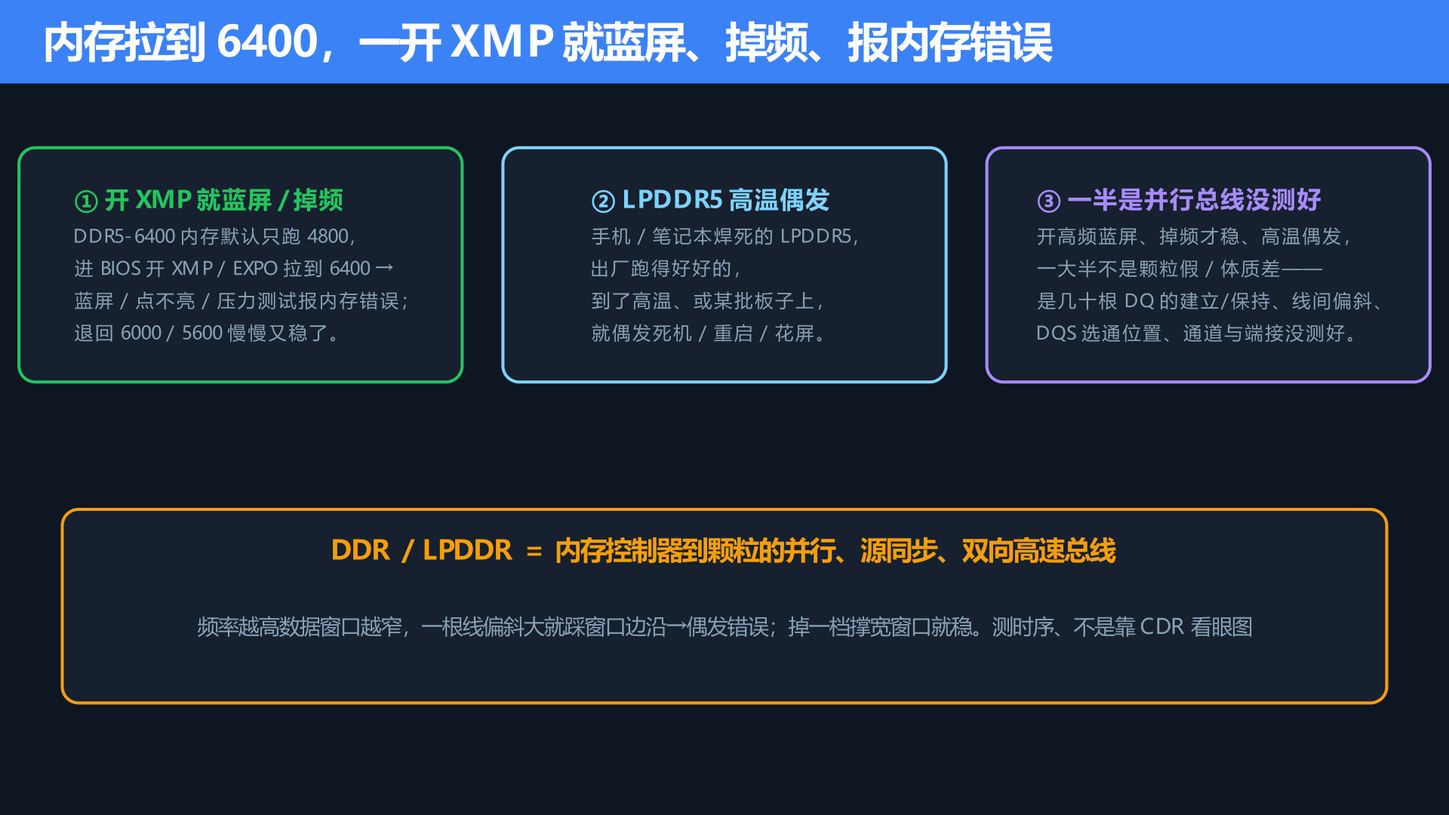
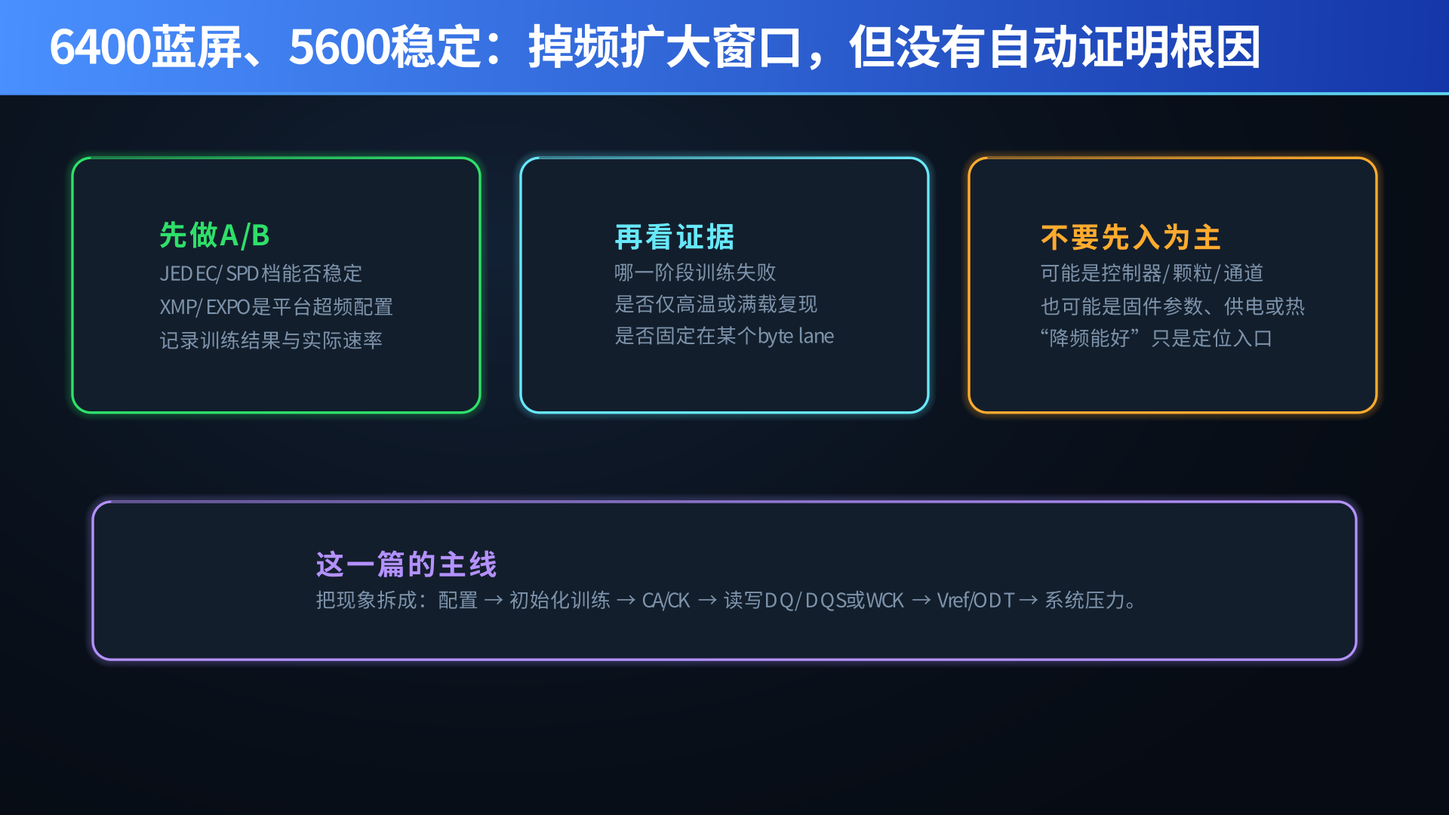
发布第45篇DDR提质内容
Copilot-Session: 4c8e3f6f-1901-408f-b55d-94d718168ce1

Changed region(s): [[0.0312, 0.1528, 1.0, 0.5194], [0.0312, 0.6111, 0.9688, 0.8861], [0.0, 0.0, 1.0, 0.1222]]

diff --git a/articles/45.md b/articles/45.md
@@ -1,204 +1,235 @@
 ---
-title: 内存频率明明拉到 6400，一开 XMP 就蓝屏、掉频、报内存错误——DDR / LPDDR：从「看眼图靠 CDR」的串行世界，一脚跨回「并行总线 + 源同步选通 + 建立保持」的另一套打法
+title: 同一套内存，6400蓝屏、5600却稳定——DDR / LPDDR怎么从训练日志追到最差byte lane
 outline: [2,3]
 ---
 
-# 内存频率拉到 6400，一开 XMP 就蓝屏、掉频、报内存错误——DDR / LPDDR：从「看眼图靠 CDR」的串行世界，一脚跨回「并行 + 源同步选通 + 建立保持」的另一套打法
+# 同一套内存，6400蓝屏、5600却稳定——DDR / LPDDR怎么从训练日志追到最差byte lane
 
-<div class="article-meta"><span class="badge">📘 模块六 · 高速接口一致性测试 · 第 11 篇 · 高速家族第 2 篇 · DDR / LPDDR</span><span class="badge">⏱ 约 21 分钟</span><span class="badge qr">🔧 含工程师速查</span></div>
+<div class="article-meta"><span class="badge">📘 模块六 · 高速接口一致性测试 · DDR / LPDDR</span><span class="badge">⏱ 约 13 分钟</span><span class="badge qr">🔧 含工程师速查</span></div>
 
 
-先说个玩游戏、装机、超频的人几乎都遇到过的场景。
+同一套DDR5内存，默认档稳定，打开XMP或EXPO跑6400就蓝屏；退到5600，又能跑几个小时。这个现象只证明了一件事：**降低数据率扩大了单位间隔，平台在较低档位找到了可用工作点。**
 
-你买了套标称 **DDR5-6400** 的内存，插上去默认只跑 **4800**；进 BIOS 打开 **XMP / EXPO** 一键超频拉到 6400，重启——**蓝屏、或者干脆点不亮、或者能进系统但一压力测试就报一堆内存错误**。你把频率退回 6000、5600，慢慢又稳了。再比如手机、笔记本上那颗焊死的 **LPDDR5**，出厂跑得好好的，到了高温、或者某批板子上，就是偶发死机、重启、花屏。
+它没有自动证明颗粒坏，也没有自动证明主板走线差。控制器、DRAM器件、拓扑、BIOS训练策略、ODT、Vref、供电和温度，都可能改变结果。正确的起手式不是换条内存碰运气，而是先做**JEDEC/SPD档与XMP/EXPO档的A/B**，再保存实际训练速率、失败阶段和错误模式。
 
-很多人以为是内存条是假货、颗粒体质差。但做硬件的人清楚：**这类「开高频就蓝屏、掉频才稳、高温偶发报错」里，有一大半根本不是颗粒坏了，而是内存这条并行总线——几十根数据线的建立 / 保持时序、线与线之间的偏斜、DQS 选通的位置、还有那段从控制器到颗粒的通道和端接——没测好、没训练好。** 频率越高，数据窗口越窄，几十根线里只要有一根偏斜大了一点、或者端接没调好反射一大，采样点就踩到了窗口边缘，于是偶发错误。开 XMP 掉一档就稳，正是因为降频把数据窗口重新撑宽了。
-
-这条总线怎么从 DDR3 一路翻到 DDR5、LPDDR 怎么低功耗还越跑越快、它的「眼图」和串行的到底差在哪、为什么测它要把颗粒从板子上「架起来」测——这，就是这一篇要讲的。
-
-![图1：DDR/LPDDR 现场痛点钩子。左：一套 DDR5-6400 内存默认只跑 4800，进 BIOS 开 XMP/EXPO 拉到 6400 → 蓝屏/点不亮/压力测试报内存错误，退回 6000/5600 才稳。中：手机/笔记本焊死的 LPDDR5 出厂正常，高温或某批板子偶发死机/重启/花屏。右：一句点题——别急着怪颗粒是假货/体质差，一半是内存并行总线（几十根 DQ 的建立/保持时序、线间偏斜、DQS 选通位置、通道与端接）没测好没训练好；频率越高数据窗口越窄，一根线偏斜大就踩窗口边沿→偶发错误，掉一档撑宽窗口就稳。DDR = 并行总线+源同步选通那一岸，测建立/保持不是靠 CDR 看眼图](/images/45/ill01_pain.png)
+![图1：DDR/LPDDR故障入口。6400失败而5600稳定只说明降档扩大了窗口；先比较JEDEC/SPD与XMP/EXPO配置，再看训练阶段、温度和最差byte lane，不先归因颗粒。](/images/45/ill01_pain.png)
 
 ---
 
-## 一、先认清主角：DDR / LPDDR 是什么、它和串行接口到底不一样在哪
+## 一、先拆清三层：配置档、训练结果、物理裕量
 
-**DDR SDRAM（双倍数据率同步动态随机存储器）** 就是你电脑、服务器里插的那几条**内存**；**LPDDR（低功耗 DDR）** 是它的低功耗版本，焊在手机、平板、超薄本上，和主控做在一起。它们连接的两端是：**内存控制器**（在 CPU / SoC 里）和**DRAM 颗粒**（内存条上那几颗黑芯片，或者焊在主板上的 LPDDR）。
+XMP和EXPO是平台超频配置，不等同JEDEC标准档。标在套条包装上的6400，也不能单独保证任意CPU、主板、DIMM拓扑和BIOS组合都稳定。因此排查要先回答：
 
-它和前面所有串行接口，有三个根本区别，正好是这一篇的测试主线：
+1. **配置层**：当前是SPD提供的JEDEC档，还是XMP/EXPO超频档？电压、时序和Command Rate是否被BIOS改写？
+2. **训练层**：平台最终训练到哪个速率？卡在CA、write leveling、read gate、DQ-DQS、Vref还是其他步骤？
+3. **物理层**：失败是否固定在某个channel、subchannel、rank或byte lane？随温度、供电、图案和负载怎样变化？
 
-1. **并行总线，不是串行**：串行接口是一对差分线上把数据一位一位高速串着发；DDR 是**几十根单端数据线（DQ）并排、同一时刻各发一位**。一个 64 位的 DIMM，光数据线就有 64 根（外加 ECC 8 根）。**堆带宽靠加宽、靠提频，不靠把单线速率无限拉高。**
-2. **源同步选通，不是嵌入式时钟 + CDR**：DDR **不把时钟埋进数据里**，而是**额外发一根数据选通 DQS**，跟着数据一起从发送端转发到接收端；接收端**直接拿 DQS 去采 DQ，不需要 CDR**。这一点它其实和 HDMI、MIPI 的 D-PHY 是**同一岸——源同步 / 转发时钟**，只不过 DDR 是这一岸里**最极致的并行**版本。所以测的主角是**建立 / 保持时序**，不是 CDR 抖动。
-3. **读写双向 + 需要训练**：同一组 DQ / DQS 线，**读的时候颗粒发、控制器收；写的时候控制器发、颗粒收**，方向反过来，而且**DQS 和数据的对齐关系还不一样**（后面讲）。加上频率极高、几十根线必须对齐，DDR 上电后要跑一套**内存训练**，逐根校准延迟、Vref、端接，训不过就只能掉频保命——这正是「开 XMP 蓝屏、掉频才稳」的根源。
-
-一句话：**DDR / LPDDR = 内存控制器和 DRAM 颗粒之间那条并行、源同步、双向、要训练的高速总线**；它测的是**时序和偏斜**，把你前面学的「串行看眼图」那套思路，整个换了一遍。
-
-![图2：认清 DDR/LPDDR 主角。中间画一条内存链路：左"内存控制器（CPU/SoC 内）"↔ 右"DRAM 颗粒（内存条/焊死 LPDDR）"，中间画一束并排的信号：一大把 DQ 数据线 + 一根 DQS 选通 + CK 命令时钟 + CA 地址命令，标"并行、几十根线同时发、无 CDR"。底部三大区别：①并行总线（几十根 DQ 同发，非串行一位位）②源同步选通 DQS 随数据转发→接收端不用 CDR（和 HDMI/D-PHY 同岸，测建立/保持不是抖动）③读写双向+上电要内存训练（训不过就掉频保命=开 XMP 蓝屏的根源）。一句话：测时序和偏斜，不是串行那套看眼图](/images/45/ill02_whatis.png)
+训练日志给的是定位入口，不是完整结论。训练通过，也只表示当前启动条件下找到了参数；它不等于全温、全压、全批次都有足够余量。
 
 ---
 
-## 二、原理与演进：并行源同步 + DQS 选通 + 读写方向，编码几乎没有
+## 二、信号不能混成一束：DQ、DQS、CK、CA各有职责
 
-### 2.1 数据链路：几十根 DQ + 一根 DQS，转发过去、直接采（无 CDR）
+DDR链路两端是内存控制器和DRAM。数据路径使用并行单端DQ，DDR家族通常用差分DQS/DQS#作为数据选通；命令地址CA则以差分CK/CK#为参考。DQ和DQS随读写方向反转，CA与CK主要由控制器送往DRAM。
 
-DDR 的每个字节（8 根 DQ）配一根 **DQS 数据选通**。发送端把数据放到 DQ 上的同时，把 DQS 也发过去；接收端**不从数据里恢复时钟**，而是**直接用收到的 DQS 边沿去锁存 DQ**。这就是**源同步（转发时钟）**——和第 40 篇 HDMI、第 43 篇 MIPI 的 D-PHY 站在同一岸，接收端**不用 CDR**。区别只在于：HDMI / D-PHY 是差分、串行一条 lane；**DDR 是单端、并行几十根线**。所以 DDR 的头号敌人不是抖动，而是——**几十根线之间、以及 DQ 和 DQS 之间的偏斜（skew）**：只要有一根线到得早了或晚了，采样就踩到数据窗口边缘。
+常见分析会把一个byte lane理解为8根DQ配一组DQS，方便组织测量。但这不是可以写死的器件定义：DRAM有x4、x8、x16等组织，ECC模组还有额外数据位，具体DQS数量和映射必须回到器件数据手册、模组拓扑和板级网表确认。
 
-### 2.2 读和写：同一组线，两个方向，DQS 对齐还不一样（DDR 独有的坎）
-
-这是 DDR 最容易把人绕晕、也是串行完全没有的地方：
-
-- **读操作**：颗粒是发送方、控制器是接收方。颗粒发出来的 **DQS 是「边沿对齐」**（DQS 跳变和数据跳变同时发生）。控制器要想采得准，得**自己把 DQS 延迟大约四分之一周期、挪到数据窗口正中间**再采——所以从控制器看，**读眼是「选通在中心」**。
-- **写操作**：控制器是发送方、颗粒是接收方。控制器故意把 **DQS 发成「中心对齐」**（DQS 跳变落在数据窗口正中），让颗粒直接拿去采。
-
-一句话记：**读眼、写眼是两张不同的眼，方向不同、DQS 对齐不同，必须分开测。** 这也是为什么内存分析要能**区分读突发和写突发**、分别触发。
-
-### 2.3 编码：几乎没有，所以速率就是「频率 × 2 × 位宽」
-
-和 PCIe 那种 8b/10b、128b/130b、PAM4 不同，**DDR 基本不做线路编码**（只有 DBI 数据总线反转这类降功耗 / 降噪的小优化）。所以它的带宽算法很直白：**数据率（MT/s）= 时钟频率 × 2（双沿）**；**总带宽 = 数据率 × 位宽 ÷ 8**。比如 DDR5-6400、64 位，单通道理论带宽约每秒 51 GB。**提带宽的三条路：提频率、加位宽（多通道）、双沿——不靠串行那种编码和 PAM4。**
-
-![图3：DDR 三大原理。①数据链路：每字节 8 根 DQ + 1 根 DQS 选通，发送端把 DQS 随数据转发，接收端直接拿 DQS 采 DQ、不用 CDR（源同步/转发时钟，和 HDMI/D-PHY 同岸，单端并行版）；头号敌人=线间偏斜 skew（DQ-DQ、DQ-DQS）。②读写双向：读=颗粒发、DQS 边沿对齐、控制器要延迟 ¼ 周期挪到中心采（读眼选通在中心）；写=控制器发、DQS 中心对齐给颗粒采。读眼写眼两张不同的眼，分开测。③编码几乎没有：数据率=频率×2（双沿），带宽=数据率×位宽÷8；提带宽靠提频/加位宽/双沿，不靠编码/PAM4](/images/45/ill03_arch.png)
+![图2：DDR信号分工。DQ和DQS/DQS#是双向数据路径，CK/CK#与CA是控制器到DRAM的命令地址路径；器件组织和DQS数量不能写死。](/images/45/ill02_signals.png)
 
 ---
 
-## 三、版本与速率：DDR3 到 DDR5，LPDDR4 到 LPDDR5X
+## 三、读写必须分开：同一根线，两套发送端与接收端
 
-内存分两条线：桌面 / 服务器的 **DDR**，和移动 / 低功耗的 **LPDDR**。都归 **JEDEC** 管，标准号 DDR 是 **JESD79-x**、LPDDR 是 **JESD209-x**。
+写操作由控制器发送DQ和DQS，DRAM接收；读操作由DRAM发送DQ和DQS，控制器接收。同一组网络换了方向，驱动器、接收器、参考面和波形都变了。
 
-| 家族 | 代数 | JEDEC 数据率（MT/s） | 关键点 |
-|---|---|---|---|
-| DDR | **DDR3** | 800 – 2133 | 外部 Vref |
-| DDR | **DDR4** | 1600 – 3200 | 内部 VrefDQ 训练、Bank Group |
-| DDR | **DDR5** | 3200 起，主流 4800 – 6400，规格到 8000+ | 双子通道 / 片上 ECC / DFE / 更细端接 |
-| LPDDR | **LPDDR4** | 3200 | 低功耗、焊死、PoP 封装 |
-| LPDDR | **LPDDR4X** | 4266 | I/O 电压再降（约 0.6 V） |
-| LPDDR | **LPDDR5** | 6400 | **引入 WCK 写时钟**（比 CK 快、专门采数据） |
-| LPDDR | **LPDDR5X** | 8533 | I/O 电压更低（约 0.5 V） |
+不同DDR代际对DQS关系、preamble/postamble和训练动作有各自定义。工程上可以用“发送端提供选通、接收端把采样相位移到窗口内部”理解，但不能把“读永远边沿对齐、写永远中心对齐、固定延迟四分之一周期”写成DDR与LPDDR全家族的通式。正式分析必须带上**代际、读写方向和适用测试方法**。
 
-几个测试上必须记住的点：
-
-- **MT/s ≠ 频率**：DDR5-6400 的时钟只有 3200 MHz，靠双沿翻成 6400 MT/s。选示波器带宽、算 UI（单位间隔）要按数据率、别按时钟频率。
-- **LPDDR5 的 WCK 是关键变化**：低功耗家族到了 LPDDR5，为了跑更高速，把**数据选通独立成一根更快的 WCK 写时钟**，和命令地址用的 CK 时钟分开——这和 PCIe 那种「另给一根参考时钟」思路不同，WCK 仍是**随数据转发的源同步选通**，只是更快、更专职。
-- **越往后越离不开训练**：DDR4 起 Vref 走内部训练，DDR5 更是把均衡（DFE）也加进颗粒——频率上去了，**出厂那套固定时序参数已经不够，必须靠上电训练一根根校**。
-
-![图4：DDR/LPDDR 版本速率阶梯。上排 DDR：DDR3(800-2133)→DDR4(1600-3200,内部Vref训练)→DDR5(4800-6400+,双子通道/片上ECC/DFE)。下排 LPDDR：LPDDR4(3200)→LPDDR4X(4266,0.6V)→LPDDR5(6400,引入WCK)→LPDDR5X(8533,0.5V)。每格标数据率+关键点。底部三条：①MT/s=频率×2，DDR5-6400 时钟只 3200MHz，算 UI/选带宽按数据率不按频率 ②LPDDR5 把选通独立成更快的 WCK 写时钟（仍是源同步转发，非 PCIe 式参考时钟）③越高速越离不开上电训练（Vref/延迟/DFE 一根根校，训不过掉频）。都归 JEDEC：DDR=JESD79，LPDDR=JESD209](/images/45/ill04_versions.png)
+![图3：DDR读写路径。写由控制器发、DRAM收；读由DRAM发、控制器收。读写突发必须分离，不能混成同一只眼。](/images/45/ill03_read_write.png)
 
 ---
 
-## 四、DDR5 的独特之处：双子通道、片上 ECC、DFE、更细端接
+## 四、并行时序预算：不是skew和jitter二选一
 
-DDR5 不只是把 DDR4 提了个频，它在架构上动了几刀，直接影响你怎么测：
+DDR5-6400的一个UI约为：
 
-- **一条 DIMM 拆成两个独立子通道**：DDR4 是 1 个 64 位通道；DDR5 把它**拆成 2 个各 32 位的独立子通道**，各有各的命令地址。好处是并行度更高、小数据搬运更高效；**代价是测试要按子通道分别看、别把两个子通道的信号混在一起判。**
-- **片上 ECC（On-die ECC）**：DDR5 **每颗颗粒内部自带纠错**，能纠单比特错——注意这和内存条上那种「ECC 内存」的**模组级 ECC 不是一回事**，片上 ECC 连普通非 ECC 内存都有。它的意义是：**颗粒内部悄悄纠掉的错，你在系统层不一定看得见**，所以信号裕量差的问题可能被 ECC 暂时盖住，测试时更要盯住原始信号质量。
-- **DFE（判决反馈均衡）进了颗粒**：DDR5 **第一次给商用内存的接收端加了均衡**——和 PCIe / USB3 那套均衡是一个道理，用来对抗高速下的码间干扰。这意味着 DDR 的眼图，也开始有「均衡后才睁得开」的味道了。
-- **端接（ODT）更精细、电压更低**：DDR5 工作电压降到 1.1 V，片上端接（ODT）档位更多、还能随读 / 写 / 空闲动态切换——**端接配错，反射就大、眼就闭**，是高速下翻车的常客。
+**UI = 1,000,000 ÷ 6400 = 156.25 ps**
 
-一句话：**DDR5 = 双子通道 + 片上 ECC + 颗粒里加了均衡（DFE）+ 更精细的端接**；它让内存第一次有了点「串行接口」的测试味道（均衡、训练），但骨子里仍是并行源同步。
+这个156.25 ps不是全部都能拿来采样。边沿时间、ISI、抖动、串扰、Vref噪声、DQ-DQ偏斜、DQ-DQS偏斜，以及接收器需要的建立与保持时间，都会占用窗口。
 
-![图5：DDR5 四大独特。①双子通道：DDR4 1×64 位 → DDR5 2×32 位独立子通道（各自命令地址），测试按子通道分别看别混判。②片上 ECC：每颗颗粒内部纠单比特错（≠ 模组级 ECC 内存），颗粒悄悄纠掉的错系统层看不见→信号裕量问题可能被盖住，更要盯原始信号质量。③DFE 进颗粒：第一次给商用内存接收端加均衡（同 PCIe/USB3 思路），对抗码间干扰→内存眼图也有"均衡后才睁开"味道。④端接更细：1.1V、ODT 档位多、随读/写/空闲动态切换，配错→反射大眼闭。一句话：DDR5 有了点串行味（均衡/训练），骨子里仍并行源同步](/images/45/ill05_ddr5.png)
+本篇教学模型把共同损耗先从左右两侧扣除，再让skew把余量从一侧搬到另一侧。skew为零时两侧均有余量；DQ相对DQS越来越早，保持侧先失败；越来越晚，建立侧先失败。因此，“DDR头号敌人不是抖动，而是skew”也不准确。正确说法是：
 
----
+> **并行源同步接口的采样窗口由skew、jitter、ISI、Vref噪声和接收时序要求共同决定；最差DQ或byte lane决定系统余量。**
 
-## 五、DDR 测什么 · 三类：读眼、写眼、地址命令时序（都以 DQS / CK 为参考）
+![图4：DDR5-6400教学时序预算。UI约156.25 ps，jitter、ISI和guard先占窗口，skew再改变建立与保持两侧的分配。图中22 ps为教学判据，不是JEDEC限值。](/images/45/ill04_budget.png)
 
-DDR 的一致性测试也分三大类，但**每一类的参考都不是恢复时钟，而是那根转发过来的选通 / 时钟**——这是它和串行最大的不同：
-
-1. **读眼（颗粒 → 控制器）**：示波器抓颗粒发出的 DQ，**以收到的 DQS 为参考时钟**做眼图和时序。因为读的 DQS 是边沿对齐的，工具要**先把 DQS 挪到数据中心**（或直接量数据相对 DQS 的建立 / 保持），再套 JEDEC 的**眼图模板 + 建立 / 保持限值**。重点看：眼宽（时序裕量）、眼高（电压裕量、相对 Vref）、上升下降时间、过冲下冲。
-2. **写眼（控制器 → 颗粒）**：抓控制器发出的 DQ 和中心对齐的 DQS，同样以 DQS 为参考，验写方向的建立 / 保持和眼图。**读眼、写眼要分开触发、分开判**——这是内存分析仪 / 示波器的内存软件的基本功。
-3. **地址 / 命令 + 时钟（CA / CK）**：地址命令总线通常是**单沿（SDR）**、以 **CK 差分时钟**为参考，测命令 / 地址相对 CK 的建立 / 保持；再加 CK 本身的抖动、占空比。**命令地址错，表现出来往往是训练不过、认不到内存，而不是数据错。**
-
-贯穿三类的共同度量，全是**并行总线的东西**：建立时间、保持时间、**DQ 与 DQ 之间的偏斜、DQ 与 DQS 的偏斜**、眼宽眼高、Vref 裕量、过冲下冲、端接反射。抖动只是其中一项，不是主角。
-
-![图6：DDR 测什么三类（都以转发来的 DQS/CK 为参考，不是 CDR 恢复时钟）。①读眼（颗粒→控制器）：抓 DQ，以收到的 DQS 为参考，读 DQS 边沿对齐→先挪到数据中心再量建立/保持，套 JEDEC 眼图模板；看眼宽（时序裕量）/眼高（相对 Vref 电压裕量）/上升下降/过冲。②写眼（控制器→颗粒）：抓 DQ+中心对齐 DQS，验写方向建立/保持。读眼写眼分开触发分开判。③地址命令+时钟 CA/CK：CA 单沿以 CK 差分时钟为参考量建立/保持，加 CK 抖动/占空比；命令地址错=训练不过/认不到内存。共同度量：建立/保持、DQ-DQ 与 DQ-DQS 偏斜、眼宽眼高、Vref 裕量、过冲、端接反射——抖动只是其一](/images/45/ill06_test3.png)
+![动图1：DQ-DQS skew从负到正连续扫描。DQ早到时保持侧FAIL，中间PASS，DQ晚到时建立侧FAIL；两侧22 ps为教学判据。](/images/45/anim45_skew.gif)
 
 ---
 
-## 六、怎么测 · 台面：BGA 转接板 + 读写分离 + 内存训练态
+## 五、DDR5 DIMM与LPDDR5/5X必须分开讲
 
-DDR 的测试台面，和串行那套「测试点 + 探头 + 一致性软件」有一半是通的，但它有两道**并行内存独有的大坎**：
+### 5.1 DDR5 DIMM
 
-- **坎一：信号探不到，得上转接板（interposer）**。DDR 颗粒是 **BGA 封装**，信号从芯片底下的焊球直接进 PCB，**表面根本没有可探的点**。所以要用 **BGA 转接板**：把它插在颗粒和主板之间（颗粒焊到转接板上、转接板再插进主板 BGA 位），转接板上引出探测点接示波器；测内存条则用 **DIMM 插槽转接板**。转接板本身会引入一点负载和通道影响，是内存测量绕不开的前提。
-- **坎二：读写要分离**。因为同一组线读写双向跑，示波器 / 内存分析软件必须**靠命令总线或选通方向，把读突发和写突发分开**，才能分别累积读眼、写眼——混在一起眼图就是糊的。
+DDR5 DIMM仍用CK/CA处理命令地址、用DQ与DQS传输数据。常见非ECC DIMM可看作两个32 bit独立子通道；ECC模组通常还包含额外数据位，因此不能统一写成“所有DDR5都是2×32 bit”。
 
-台面主要步骤：① **上转接板**，探 DQ、DQS、CK、CA、Vref；② **让内存跑规定的读 / 写图案**（用平台的内存测试 / BIST，或专用测试卡），锁定目标速率档；③ **配好 Vref 和 ODT**（按 JEDEC 或平台训练值）；④ **触发并分离读 / 写突发**，分别以 DQS / CK 为参考累积眼图；⑤ **套 JEDEC 眼图模板 + 量建立 / 保持 + 量偏斜 + 量过冲**，出通过 / 不通过 + 裕量。示波器带宽一般要**数据率的 2 倍以上**，配高阻有源探头。
+DDR5还引入On-die ECC。它是DRAM内部可靠性机制，不等同模组级或系统端到端ECC，也不能据此推导“系统层完全看不到所有内部错误”。它更不能替代原始SI、训练裕量和系统压力测试。
 
-一句话：**DDR 测法 = 转接板把藏在焊球下的信号引出来 + 读写分开 + 以转发选通为参考量时序**；它和串行共用示波器和眼图概念，但主角是时序和偏斜，且非探转接板不可。
+### 5.2 LPDDR5 / LPDDR5X
 
-![图7：测 DDR 的台面。坎一：BGA 封装信号在焊球底下没法探→用 BGA 转接板（颗粒焊转接板→插主板 BGA 位，引出探点）/ DIMM 插槽转接板；转接板本身引入负载是前提。坎二：读写同线双向→靠命令总线/选通方向把读突发写突发分开，才能分别累积读眼写眼。步骤：①上转接板探 DQ/DQS/CK/CA/Vref ②跑规定读写图案(BIST)锁速率 ③配 Vref/ODT ④触发并分离读写突发,分别以 DQS/CK 参考累积眼图 ⑤套 JEDEC 眼图模板+量建立保持+偏斜+过冲。带宽≥2×数据率+高阻有源探头。一句话：转接板引出信号+读写分开+以转发选通为参考量时序](/images/45/ill07_bench.png)
+LPDDR5把命令地址时钟域和高速数据时钟域进一步分开：CK服务于命令地址时序，高速数据接口引入WCK。WCK参与高速数据传输及相关训练，但它不是“把DQS简单改名”，也不应只写成“写时钟”。具体WCK与DQ、读写和训练关系必须按适用代际规范及器件实现确认。
 
----
+LPDDR通常采用BGA或PoP，信号埋在封装下，测试台面与DIMM插槽完全不同。
 
-## 七、判据：JEDEC 一致性 —— 眼图模板 + 建立 / 保持 + 过冲，从时序预算反推
-
-DDR / LPDDR 的判据，来自 **JEDEC 标准**（DDR = JESD79-x，LPDDR = JESD209-x），核心是三块：
-
-- **眼图模板（Data Eye / Mask）**：在时间 - 电压平面上画一个禁区，DQ / DQS 波形不许侵入；同时给**最小眼宽、最小眼高（相对 Vref）**。
-- **建立 / 保持时序**：数据相对选通、命令地址相对时钟的**建立时间、保持时间**最小值（如 tDS / tDH 一类）——这是并行总线的核心判据，串行那边基本没有。
-- **电平与边沿**：过冲 / 下冲的**幅度和面积**上限、上升 / 下降时间范围、Vref 容差。
-
-这些模板和限值同样是**从系统时序预算反推**出来的：把时钟抖动、几十根线的偏斜、板级通道损耗、串扰、Vref 噪声全算进一个预算里，扣掉这些余量，剩下的就是颗粒 / 控制器信号必须守住的窗口。**和串行不同的是：串行预算里的大头是抖动和均衡；DDR 预算里的大头是偏斜和建立 / 保持。** 这跟 UFS 分 M-PHY 和 JEDEC 两本、DP 分物理层和链路层两本，是同一个「电气一本、协议 / 系统一本」的套路——只不过 DDR 的电气判据换成了并行时序那套。
+![图5：DDR5 DIMM与LPDDR5/5X分开。前者按CK/CA和DQ/DQS理解；后者需单独处理CK、WCK、DQ及PoP/BGA探测。](/images/45/ill05_families.png)
 
 ---
 
-## 八、常见翻车 → 分层揪真凶（别一上来就换内存条）
+## 六、Training到底在校什么
 
-内存报错、蓝屏、掉频，最忌讳一上来就换条、换颗粒。正确姿势还是分层：
+训练的核心不是“自动修好设计”，而是让控制器与DRAM在当前通道、温度、电压和速率下搜索可用工作点。不同代际和控制器实现的训练项目并不完全相同，但可按四组理解：
 
-- **① 训练 / 初始化层**：内存训练过没过、跑在哪一档频率、时序参数（时序表 SPD / XMP）对不对。**开 XMP 就蓝屏、点不亮、只能降频跑**，绝大多数死在这一层——多半是这个频率下通道 / 颗粒的裕量不够，训练只能回落。先查这里，别碰示波器。
-- **② 时序 / 偏斜层**：训得上但高频偶发错。去量**建立 / 保持裕量、DQ 之间和 DQ-DQS 之间的偏斜**——一根线走线长了、过孔多了，偏斜就超。
-- **③ 信号完整性 / 电气层**：眼图模板压线、**过冲下冲超标、端接（ODT）没配好导致反射、Vref 偏**。这一层管眼睁不睁得开。
-- **④ 地址 / 命令层**：数据没错但**认不到内存、容量不对、训练在命令阶段就挂**，去查 CA 总线相对 CK 的时序、命令完整性。
-- **⑤ 供电 PI 层**：内存大电流突发下 **VDDQ 掉压 / 纹波**，会让本来卡边的时序直接翻车——高温、满载才复现的偶发错误，重点怀疑这一层（呼应模块三 PI）。
+- **初始化与CA路径**：识别器件、拓扑和rank，确认命令地址路径可用。
+- **写路径**：校准写方向的DQS关系、位延迟和Vref等参数。
+- **读路径**：校准门控、采样相位、数据位延迟和Vref等参数。
+- **电气参数**：按代际和实现调整ODT、驱动强度及可用均衡能力。
 
-口诀一句：**先看训练和频率档，再量建立 / 保持和偏斜，再看眼图 / 过冲 / 端接 / Vref，再查命令地址，最后别忘供电。**
+本篇二维模型同时扫描DQS delay和Vref。单独把delay调到中心，而Vref仍偏在边缘，照样失败；反过来也一样。只有组合点进入绿色窗口，教学判定才PASS。
 
-![图8：DDR 常见翻车分层揪真凶。左五层：①训练/初始化层（训练过没过/跑哪档/SPD·XMP 对不对——开 XMP 蓝屏/点不亮/只能降频死这层,先查别碰示波器）②时序/偏斜层（训得上高频偶发错→量建立保持裕量+DQ-DQ/DQ-DQS 偏斜,走线长/过孔多就超）③信号完整性/电气层（眼图压线/过冲下冲超标/ODT 反射/Vref 偏）④地址命令层（认不到内存/容量不对/命令阶段训练挂→查 CA-CK 时序）⑤供电 PI 层（VDDQ 掉压/纹波,高温满载偶发,呼应模块三）。右"现象→指向哪层"对照：开 XMP 蓝屏→训练/频率;高频偶发错→偏斜/建立保持;认不到内存→命令地址;高温满载才错→供电。口诀：先训练频率→建立保持偏斜→眼图过冲端接Vref→命令地址→别忘供电](/images/45/ill08_debug.png)
+![图6：Training项目地图。初始化/CA、读路径、写路径和电气参数分别校准；训练通过只代表当前条件下找到设置。](/images/45/ill06_training.png)
+
+![动图2：delay与Vref二维训练。搜索轨迹从窗口外进入中心，再离开窗口；绿色椭圆为教学训练窗。](/images/45/anim45_training.gif)
 
 ---
 
-## 九、工程师速查（一图带走）
+## 七、Vref与ODT：都不是“调大一点更稳”
 
-- **主角 / 时钟**：内存控制器↔DRAM 颗粒的**并行、源同步、双向**总线；几十根 DQ + DQS 选通转发，接收端**不用 CDR**（和 HDMI / D-PHY 同岸的并行极致版），测**建立 / 保持 + 偏斜**，不是抖动。
-- **读写**：读 = 颗粒发、DQS 边沿对齐、要挪到中心采；写 = 控制器发、DQS 中心对齐。**读眼、写眼分开测。**
-- **速率**：DDR3/4/5 = 800~2133 / 1600~3200 / 4800~6400+ MT/s；LPDDR4/4X/5/5X = 3200 / 4266 / 6400 / 8533 MT/s；**MT/s = 频率 × 2**，无线路编码，带宽 = 数据率 × 位宽 ÷ 8。
-- **DDR5 独特**：双 32 位子通道 / 片上 ECC / 颗粒里加 DFE 均衡 / 更细 ODT；LPDDR5 引入更快的 **WCK 写时钟**。
-- **测什么三类**：读眼（DQS 边沿对齐、采样前挪中心）、写眼（DQS 中心对齐）、地址命令时序（相对 CK）；都以**转发来的选通 / 时钟**为参考。
-- **怎么测**：**BGA / DIMM 转接板**把焊球下的信号引出来 + **读写分离** + 以 DQS/CK 为参考量时序；带宽 ≥ 2× 数据率。
-- **判据 / 调试**：JEDEC（DDR JESD79 / LPDDR JESD209）眼图模板 + 建立 / 保持 + 过冲，从时序预算反推；调试分层：训练频率 → 建立保持偏斜 → 眼图过冲端接 Vref → 命令地址 → 供电。
+Vref决定接收电压判决位置。偏得太高或太低，都会缩小一侧电压裕量；噪声和温漂还会让最佳点移动。
 
-![图9：DDR/LPDDR 工程师速查卡（六格）。主角/时钟：控制器↔颗粒并行源同步双向,DQS 转发不用 CDR,测建立/保持+偏斜。读写：读=颗粒发 DQS 边沿对齐挪中心采,写=控制器发 DQS 中心对齐,读眼写眼分开测。速率：DDR3/4/5=2133/3200/6400+,LPDDR4/4X/5/5X=3200/4266/6400/8533 MT/s,MT/s=频率×2 无编码。DDR5 独特：双子通道/片上ECC/DFE/细 ODT,LPDDR5 引入 WCK。测什么三类：读眼/写眼/地址命令时序,以转发选通为参考。判据/调试：JEDEC JESD79·209 眼图模板+建立保持+过冲,分层训练→偏斜→电气→命令→供电。底部：↔44 PCIe·43 MIPI·40 HDMI（源同步邻居）·35 一致性总览·32 抖动·31 眼图·29 带宽（下一篇 Thunderbolt 雷电）](/images/45/ill09_quickref.png)
+ODT用于控制反射，但最佳值与驱动、拓扑、方向、rank状态和工作模式有关。欠端接和过端接都可能增加振铃。图中的48 Ω只是本教学模型的匹配点，不能抄进产品设置。
+
+真实波形模型中，ODT从20 Ω扫到120 Ω：两端反射加重，中间区域眼图最好。它表达的是“存在匹配窗口”，而不是宣称某个公开JEDEC门限。
+
+![图7：ODT教学模型的三组真实眼图。20 Ω欠端接、48 Ω接近模型匹配、120 Ω过端接；两端反射都变大。](/images/45/ill07_odt.png)
+
+![动图3：ODT从20 Ω扫到120 Ω。右侧真实码流眼图展示形态变化，左侧独立行为模型按眼高0.40与眼宽0.35 UI教学判据经历FAIL、PASS、FAIL；两者趋势一致但数值口径不同。](/images/45/anim45_odt.gif)
+
+---
+
+## 八、DDR5新能力要讲清边界
+
+DDR5的子通道、On-die ECC、更细的ODT和器件/控制器可能具备的均衡能力，确实提高了架构复杂度。但要避免三个误区：
+
+1. **标准能力不等于所有器件实现完全相同**。是否支持某类均衡、训练参数能否读取，要看具体器件和控制器。
+2. **On-die ECC不等于端到端ECC**。它不能覆盖控制器、板级传输和系统存储路径的所有错误。
+3. **训练和纠错不等于放宽物理裕量**。系统压力测试仍要覆盖温度、电压、图案、时间和批次。
+
+![图8：DDR5能力边界。子通道、On-die ECC、均衡与ODT分别属于架构、器件和实现层，不能互相替代测试证据。](/images/45/ill08_ddr5.png)
+
+---
+
+## 九、测试对象要分开：一张眼图不能回答所有问题
+
+DDR/LPDDR测试至少包含五类证据：
+
+| 对象 | 主要证据 | 不能替代什么 |
+|---|---|---|
+| Tx/波形 | DQ、DQS、WCK、CA、CK的电气与时序 | 不能单独证明Rx容限 |
+| Rx/容限 | delay、Vref或压力扫参得到的接收窗口 | 不能由Tx眼图替代 |
+| 通道/互连 | 拓扑、阻抗、损耗、串扰、探测加载 | 不能单独证明训练策略正确 |
+| 训练/日志 | 实际档位、失败阶段、训练参数 | 不是单一物理根因证明 |
+| 系统压力 | 温度、电压、图案、时长、错误地址 | 不能替代波形和根因分析 |
+
+![图9：DDR/LPDDR五类测试对象。Tx、Rx、通道、训练日志和系统压力各自回答不同问题。](/images/45/ill09_test_objects.png)
+
+---
+
+## 十、台面怎么搭：先确定参考面和探测加载
+
+### 10.1 DDR5 DIMM台面
+
+DIMM可使用slot interposer或专用夹具引出目标subchannel和byte lane。示波器需要分离读写突发，并保存训练日志、速率档和测试图案。夹具、走线和探头都会加载通道，必须记录参考面和去嵌边界。
+
+![图10：DDR5 DIMM Setup Diagram。示波器通过slot interposer探测目标DQ/DQS，平台固定速率与图案并保存训练日志。](/images/45/fig_setup_dimm.png)
+
+### 10.2 LPDDR5/5X台面
+
+LPDDR通常需要BGA/PoP interposer或设计阶段预留的可测结构。只引出必要信号，先评估探测结构的加载，再解释波形。DQ/WCK数据路径、CA/CK命令路径、训练日志和环境应力要分组，不要混成一次捕获。
+
+![图11：LPDDR5/5X Setup Diagram。BGA/PoP interposer引出DQ、WCK和CA，联动训练日志、温箱与供电扰动。](/images/45/fig_setup_lpddr.png)
+
+示波器和探头带宽不能套“至少2×数据率”的万能公式。正确选型要结合目标边沿、适用JEDEC方法、探头与夹具响应、噪声和去嵌方案。
+
+![图12：DDR测试台面原则。DIMM与LPDDR分别选择interposer，明确读写方向、参考面和探测加载。](/images/45/ill10_setup.png)
+
+---
+
+## 十一、最差byte lane：为什么高温会让6400回退
+
+并行接口是木桶。其他lane有余量，只要一个byte lane受skew、Vref偏移、噪声或局部通道影响更大，平台就可能在压力条件下报错。
+
+本篇模型给8个byte lane不同的skew、Vref和噪声工作点。温度从25°C升高时，最差lane的6400余量逐步下降；进入模型FAIL区后，训练回退到较低档。降档让UI变宽，因此重新PASS，但原来的最差lane和物理弱点并没有消失。
+
+![动图4：8个byte lane的温度扫描。最差lane先越过教学门槛，平台从6400回退；降档扩大UI但不等于修复根因。](/images/45/anim45_lane.gif)
+
+---
+
+## 十二、从“蓝屏”走到根因的五步
+
+1. **固定复现条件**：记录BIOS、SPD/XMP/EXPO、速率、时序、电压、温度、负载和错误地址。
+2. **读取训练证据**：确认失败阶段、实际档位、channel/subchannel/rank/device/byte lane。
+3. **做变量隔离**：单独改变速率、温度、电压、图案或rank，避免一次改多个旋钮。
+4. **按对象测量**：CA初始化问题看CA/CK；读写错误分方向看DQ与DQS/WCK；持续关注Vref、ODT和VDDQ。
+5. **闭环验证**：修正后回到原始高温、高压/低压、长时间压力和批次条件，而不是只看一次训练通过。
+
+![图13：DDR/LPDDR分层定位。从配置档和训练阶段开始，再落到CA、读写byte lane、SI/PI/热和系统层。](/images/45/ill11_debug.png)
 
 ---
 
 ## 一句话总结
 
-**一句话：DDR / LPDDR 是内存控制器到 DRAM 颗粒之间那条并行、源同步、双向、还要训练的高速总线——几十根 DQ 并排一起发、一根 DQS 选通随数据转发，接收端不用 CDR、直接拿选通采数据，把前面整个串行家族「看眼图、靠 CDR」的打法一脚跨回了「看时序、靠选通」。**
+**DDR / LPDDR不是“只看建立保持、不看眼图”，也不是“和串行接口一样套一只眼”。它要按代际和读写方向，以DQS、CK或WCK等适用参考拆开波形和时序，再把skew、jitter、ISI、Vref、ODT、训练与最差byte lane放进同一个证据链。**
 
-- **测的主角变了**：不再是抖动和均衡，而是建立 / 保持时序，加上几十根线之间的偏斜。
-- **两道串行没有的坎**：读眼、写眼方向不同要分开测；信号藏在 BGA 焊球底下，非上转接板不可测。
-- **判据来自 JEDEC**：DDR 归 JESD79、LPDDR 归 JESD209，模板和限值从系统时序预算反推。
-- **调试先分层**：先看训练和频率档 → 再量建立 / 保持和偏斜 → 再看眼图 / 过冲 / 端接 / Vref → 再查命令地址 → 最后别忘供电。
+![图14：DDR/LPDDR工程师速查。入口、架构、时序、训练、台面与证据闭环六步。](/images/45/ill12_quickref.png)
+
+下一篇我们讲《Thunderbolt / USB4》：当PCIe、DisplayPort和USB被封进同一条隧道，电气、路由与协议问题该怎样分层。
 
 ---
 
-## 附：DDR / LPDDR 一致性测试速查表
+## 🔧 工程师速查（附录）
 
-| 维度 | 内容 |
+### A. 第一轮必须保存
+
+| 类别 | 记录项 |
 |---|---|
-| **是什么** | 内存控制器↔DRAM 颗粒的**并行 + 源同步 + 双向**高速总线；几十根 DQ + DQS 选通 |
-| **站哪一岸** | q02 地图「源同步 / 转发时钟」岸的**并行极致版**（和 HDMI、MIPI D-PHY 同岸），**不用 CDR** |
-| **测的主角** | 建立 / 保持时序 + 线间偏斜（DQ-DQ、DQ-DQS），而非串行的抖动 / 均衡 |
-| **读 vs 写** | 读=颗粒发、DQS 边沿对齐、控制器挪到中心采（读眼选通居中）；写=控制器发、DQS 中心对齐；**分开测** |
-| **DDR 速率** | DDR3 800-2133 / DDR4 1600-3200 / DDR5 4800-6400+ MT/s（JESD79-x） |
-| **LPDDR 速率** | LPDDR4 3200 / 4X 4266 / LPDDR5 6400 / 5X 8533 MT/s（JESD209-x）；LPDDR5 引入 WCK |
-| **速率算法** | MT/s = 时钟频率 × 2（双沿），基本无线路编码；带宽 = 数据率 × 位宽 ÷ 8 |
-| **DDR5 独特** | 双 32 位子通道 / 片上 ECC / 颗粒接收端 DFE 均衡 / 更精细动态 ODT / 内部 VrefDQ 训练 |
-| **测三类** | ①读眼（DQS 边沿对齐、采样前挪到中心）②写眼（DQS 中心对齐）③地址命令 CA 相对 CK 时序 |
-| **台面两坎** | ①BGA/DIMM 转接板引出焊球下信号 ②读写突发分离 |
-| **仪器** | 示波器带宽 ≥ 2× 数据率 + 高阻有源探头；内存分析软件分离读 / 写、套 JEDEC 模板 |
-| **判据** | JEDEC 眼图模板 + 建立 / 保持限值 + 过冲 / 下冲 + Vref 容差，从时序预算反推 |
-| **调试分层** | 训练 / 频率 → 时序 / 偏斜 → 信号完整性 / 端接 / Vref → 地址命令 → 供电 PI |
-| **一句话** | 从「串行看眼图靠 CDR」跨回「并行看时序靠选通」，读写分开、非转接板不可测 |
+| 平台 | CPU/SoC、主板、BIOS、DIMM/DRAM料号、拓扑 |
+| 配置 | SPD/JEDEC或XMP/EXPO、速率、主时序、电压 |
+| 训练 | 实际速率、失败阶段、channel/subchannel/rank/device/byte lane |
+| 环境 | 温度、供电、负载、测试图案、持续时间 |
+| 错误 | 错误地址、bit/lane分布、可重复率、纠错/日志信息 |
 
-> 🔗 **本篇关联**：↔ 第 44 篇 PCIe（串行看眼图那一岸最极致，正好对照 DDR 并行源同步）· ↔ 第 43 篇 MIPI D-PHY / ↔ 第 40 篇 HDMI（同为源同步 / 转发时钟，DDR 是其并行极致版）· ↔ 第 35 篇 一致性测试总览（测试点 / 夹具 / 一致性软件 / 从预算反推限值）· ↔ 速查 02 串行高速接口全景地图 · ↔ 第 32 篇 抖动 / ↔ 第 31 篇 眼图 / ↔ 第 29 篇 带宽 · ↔ 模块三 PI（VDDQ 供电）。
->
-> ➡ **下一篇预告**：第 46 篇 **Thunderbolt（雷电）** —— 一根 Type-C 口里同时塞 PCIe、DisplayPort 和 USB，把前面几篇的接口叠成一条隧道，看它的一致性测试怎么分层拆。
+### B. 现象到证据
+
+| 现象 | 优先证据 | 不要直接下的结论 |
+|---|---|---|
+| XMP/EXPO失败 | 与JEDEC档A/B、训练日志、实际速率 | “内存是假货” |
+| 降频稳定 | UI扩大后的训练与压力结果 | “一定是走线损耗” |
+| 高温报错 | 最差lane、Vref/VDDQ、训练参数漂移 | “颗粒高温坏” |
+| 认不到器件 | 初始化状态、CA/CK、复位与供电 | “DQ眼图闭合” |
+| 固定bit/lane错误 | byte lane映射、读写方向、局部通道 | “整条DIMM坏” |
+
+### C. 模型工作点
+
+| 项目 | 本篇值 | 说明 |
+|---|---:|---|
+| DDR5-6400 UI | 156.25 ps | 由数据率计算 |
+| setup/hold教学判据 | 各22 ps | 仅用于动画翻转 |
+| ODT教学扫描 | 20–120 Ω | 48 Ω仅为模型匹配点 |
+| 眼图教学判据 | 眼高0.40、眼宽0.35 UI | 不是JEDEC模板 |
+| 温度教学扫描 | 25–95°C | 只演示木桶与降档趋势 |
+
+### D. 公开标准入口
+
+- DDR SDRAM：JEDEC JESD79系列，按具体DDR代际选择。
+- LPDDR：JEDEC JESD209系列，按具体LPDDR代际选择。
+- XMP/EXPO：属于平台内存超频配置生态，不等同JEDEC标准档。
+- 正式产品判定必须使用有权限的适用规范、器件数据手册、平台测试方法和经过校准的夹具/工具。

diff --git a/index.md b/index.md
@@ -36,9 +36,9 @@ hero:
 
 ## 🆕 最新更新
 
+- [45 · 同一套内存，6400蓝屏、5600却稳定——DDR / LPDDR怎么从训练日志追到最差byte lane](/articles/45) 🔧
 - [44 · 同一块 Gen5 SSD，为什么这个槽跑满、那个槽会回退？](/articles/44) 🔧
 - [ss01 · 板级数字信号完整性 SI 完整知识地图：从回流、反射到眼图和 BER，一条链路到底该怎么查](/articles/ss01) 🔧
 - [43 · 屏没坏：FPC 只多吃 0.37 dB，MIPI 电气判定就能从过变挂](/articles/43) 🔧
 - [41 · 同样一台高刷显示器，为什么厂商都让你"用 DP 线、别用 HDMI"？——DisplayPort：天生就是嵌入式时钟 + 打包传输，一致性测法和 HDMI 差在哪](/articles/41) 🔧
 - [42 · 同样是 256G 手机，为什么有的秒开大型游戏、有的卡到怀疑人生？——UFS：把 eMMC 的并行老总线换成 MIPI M-PHY 串行，一致性测法为什么和显示家族"分了家"](/articles/42) 🔧
-- [40 · 同样一根 HDMI 线，为什么有的能 4K120 / 8K、有的一插就花屏黑屏？——HDMI：从 TMDS 到 FRL，测法怎么跟着传输机制换了一套](/articles/40) 🔧
